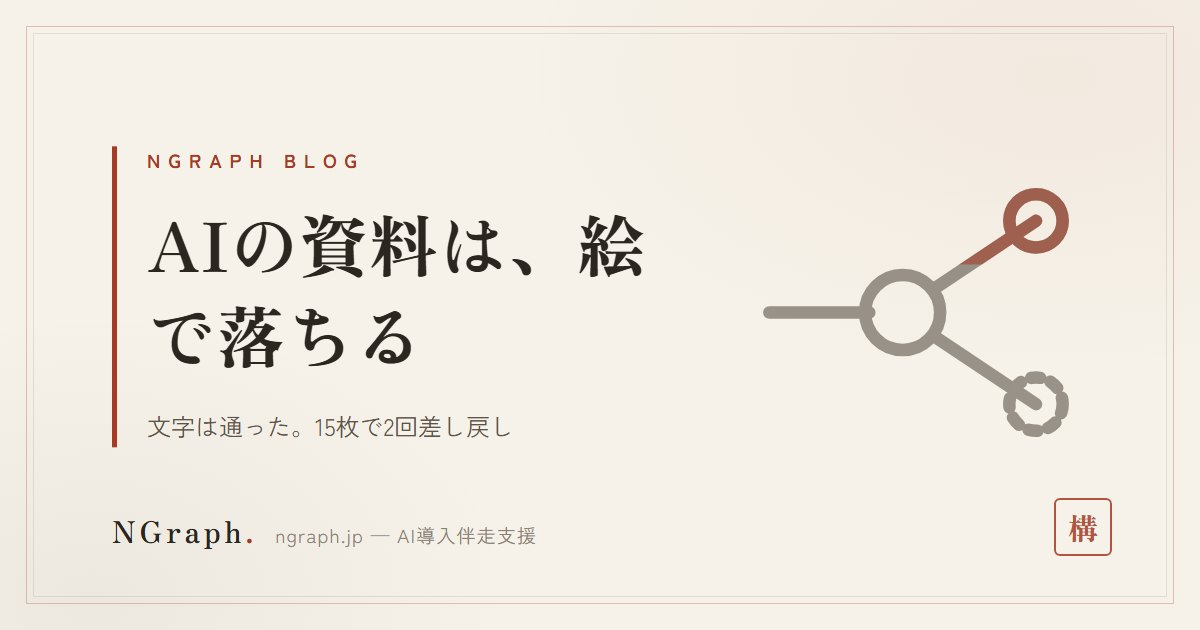
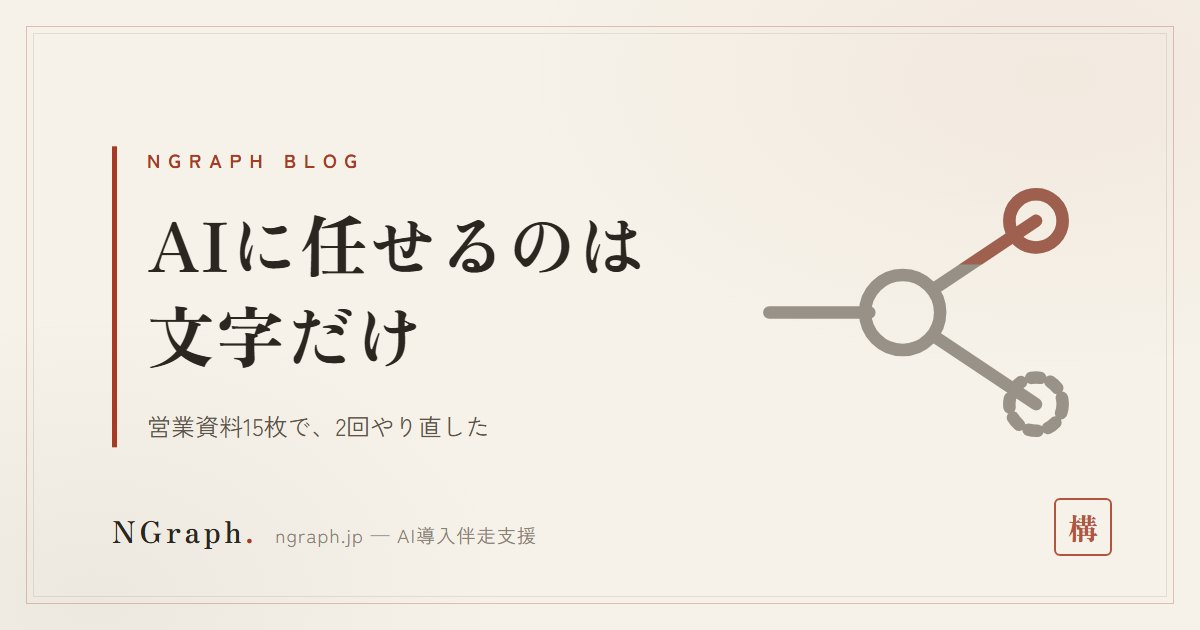
blog: 「絵で落ちる」を廃止し伝わる言葉に全面書き換え・表紙も作り直し
指摘: 表紙が「絵／で落ちる」で改行が割れていた。「落ちる」が何のことか本文を
読んでも分からない。注釈だらけの説明も読みにくい。

- 改題: AIに任せていいのは文字だけだった——営業資料15枚の移植で2回差し戻された理由と、イラストと書体の渡し方
- 表紙: 「AIに任せるのは／文字だけ」（改行を意味の切れ目に固定・図案との重なり検査も通過）
- 本文: 落ちる→作り直しになる／通る→そのまま使える／焼く→画像にする／
  近似再現→似せて描く／正本→元のデザイン に置換（社内語と比喩を全廃）
- H2見出し3本を平易化・図2のラベルも追随

Changed region(s): [[0.185, 0.3317, 0.555, 0.4524], [0.1233, 0.4825, 0.37, 0.6032], [0.1233, 0.6635, 0.4317, 0.6937]]

diff --git a/blog/20260818-ai-shiryo-sakusei.html b/blog/20260818-ai-shiryo-sakusei.html
@@ -10,10 +10,10 @@
   gtag('js', new Date());
   gtag('config', 'G-L96HMXRK1D');
 </script>
-<title>AIが作った営業資料は、絵で落ちる——15枚の移植で2回差し戻された理由と、文字と絵を分ける設計 | NGraphブログ</title>
-<meta name="description" content="AIに資料作成を任せると、文字は通っても絵と書体で落ちます。15枚のPowerPoint移植で実際に2回差し戻された理由と、文字は編集できる形で・絵は画像のまま渡す設計を、検収の手順とあわせて解説します。">
-<meta property="og:title" content="AIが作った営業資料は、絵で落ちる——15枚の移植で2回差し戻された理由と、文字と絵を分ける設計 | NGraphブログ">
-<meta property="og:description" content="15枚のPowerPoint移植で実際に2回差し戻されました。1回目は書体、2回目はイラストの近似再現が原因です。文字と絵の分け方と検収の手順を解説します。">
+<title>AIに任せていいのは文字だけだった——営業資料15枚の移植で2回差し戻された理由と、イラストと書体の渡し方 | NGraphブログ</title>
+<meta name="description" content="AIに営業資料を作らせると、文章と表はそのまま使えます。作り直しになるのはイラストとロゴ、そして書体です。15枚のPowerPoint移植で2回差し戻された理由と、文字は編集できる形で・絵は画像のまま渡す分け方を、検収の手順とあわせて書きました。">
+<meta property="og:title" content="AIに任せていいのは文字だけだった——営業資料15枚の移植で2回差し戻された理由と、イラストと書体の渡し方 | NGraphブログ">
+<meta property="og:description" content="15枚のPowerPoint移植で2回差し戻されました。1回目は書体、2回目はイラストです。文字と絵で渡し方を分ける理由と、検収の手順を書いています。">
 <meta property="og:type" content="article">
 <meta property="og:url" content="https://ngraph.jp/blog/20260818-ai-shiryo-sakusei">
 <meta property="og:site_name" content="株式会社NGraph">
@@ -34,9 +34,9 @@
 {
   "@context": "https://schema.org",
   "@type": "Article",
-  "headline": "AIが作った営業資料は、絵で落ちる——15枚の移植で2回差し戻された理由と、文字と絵を分ける設計",
+  "headline": "AIに任せていいのは文字だけだった——営業資料15枚の移植で2回差し戻された理由と、イラストと書体の渡し方",
   "image": "https://ngraph.jp/assets/blog/20260818-ai-shiryo-sakusei.jpg",
-  "description": "AIに資料作成を任せると、文字は通っても絵と書体で落ちます。15枚のPowerPoint移植で実際に2回差し戻された理由と、文字は編集できる形で・絵は画像のまま渡す設計を、検収の手順とあわせて解説します。",
+  "description": "AIに営業資料を作らせると、文章と表はそのまま使えます。作り直しになるのはイラストとロゴ、そして書体です。15枚のPowerPoint移植で2回差し戻された理由と、文字は編集できる形で・絵は画像のまま渡す分け方を、検収の手順とあわせて書きました。",
   "datePublished": "2026-08-18",
   "dateModified": "2026-08-18",
   "inLanguage": "ja",
@@ -50,12 +50,12 @@
  "@context": "https://schema.org",
  "@type": "FAQPage",
  "mainEntity": [
-  {"@type": "Question", "name": "AIに資料を丸ごと作らせることはできますか", "acceptedAnswer": {"@type": "Answer", "text": "文章や見出し、表や箇条書きの下書きはAIに任せられます。落ちるのは図解やイラスト、ロゴ、書体、ページ番号のような環境や近似に左右される部分です。丸ごと任せて検収を1段階で済ませると、書体や絵のところで差し戻しが起きます。"}},
+  {"@type": "Question", "name": "AIに資料を丸ごと作らせることはできますか", "acceptedAnswer": {"@type": "Answer", "text": "文章や見出し、表や箇条書きの下書きはAIに任せられます。作り直しになるのは図解やイラスト、ロゴ、書体、ページ番号です。丸ごと任せて確かめを1段階で済ませると、書体かイラストのところで差し戻しが起きます。"}},
   {"@type": "Question", "name": "PowerPointとPDF、どちらで受け取るべきですか", "acceptedAnswer": {"@type": "Answer", "text": "あとから文字を直す可能性があるなら、編集できるPowerPointで受け取るほうが直しやすい形です。ただし渡す相手の環境で書体が置き換わらないように、PowerPointの機能で書体を埋め込んで保存しておいてください。修正の予定が無い最終版であれば、見た目が崩れにくいPDFのほうが安全な場面もあります。"}},
   {"@type": "Question", "name": "生成AIで作った画像を営業資料に使ってよいですか", "acceptedAnswer": {"@type": "Answer", "text": "使えるかどうかは、使っている生成AIサービスの利用規約によって条件が異なります。商用利用が可能か、生成した画像の権利がどちらに帰属するかを、サービスごとの規約であらかじめ確認してください。判断に迷う場合は、社内で法務や契約の窓口に確認する体制を先に作っておくことをおすすめします。"}},
   {"@type": "Question", "name": "書体はどうすればいいですか", "acceptedAnswer": {"@type": "Answer", "text": "PowerPointやWordの機能で書体を埋め込んで保存すると、開く相手のパソコンに同じ書体が入っていなくても表示が崩れにくくなります。ただしMicrosoftの公式ドキュメントには、すべてのTrueTypeフォントを埋め込めるわけではないと明記されています。使う書体が埋め込みに対応しているかを先に確認してください。"}},
-  {"@type": "Question", "name": "イラストや図版だけ外に頼むのは無駄ですか", "acceptedAnswer": {"@type": "Answer", "text": "無駄ではありません。うちの経験では、承認済みのイラストやロゴをAIに描き直させると品質が正本に届かないことが分かっています。文字の修正はAIやテキスト編集で内製し、イラストや図版は正本を作れる人に依頼して切り出して使うという分担のほうが、結果的に手戻りが少なくなります。"}},
-  {"@type": "Question", "name": "社内では誰がこの検収をやるべきですか", "acceptedAnswer": {"@type": "Answer", "text": "資料を実際に使う人、つまり渡す相手と同じ環境を持っている人が検収するのが確実です。制作した本人だけがプレビューで確認する体制だと、書体の置き換わりのような環境依存の欠陥を見逃します。"}}
+  {"@type": "Question", "name": "イラストや図版だけ外に頼むのは無駄ですか", "acceptedAnswer": {"@type": "Answer", "text": "無駄ではありません。うちの経験では、承認済みのイラストやロゴをAIに描き直させると品質が元のデザインに届かないことが分かっています。文字の修正はAIやテキスト編集で内製し、イラストや図版は元のデザインを作れる人に頼み、そこから切り出して使うという分担のほうが、結果的に手戻りが少なくなります。"}},
+  {"@type": "Question", "name": "社内では誰が確認すべきですか", "acceptedAnswer": {"@type": "Answer", "text": "資料を実際に使う人、つまり渡す相手と同じ環境を持っている人が確認するのが確実です。制作した本人だけがプレビューで確認する体制だと、書体の置き換わりのような環境依存の欠陥を見逃します。"}}
  ]
 }
 </script>
@@ -76,51 +76,51 @@
 
 <article class="article-wrap">
   <div class="a-label">Evening Deep Dive</div>
-  <h1>AIが作った営業資料は、絵で落ちる——15枚の移植で2回差し戻された理由と、文字と絵を分ける設計</h1>
+  <h1>AIに任せていいのは文字だけだった——営業資料15枚の移植で2回差し戻された理由と、イラストと書体の渡し方</h1>
   <span class="a-date">2026.08.18 夕 ｜ 株式会社NGraph</span>
-  <img class="a-eyecatch" src="/assets/blog/20260818-ai-shiryo-sakusei.jpg" alt="AIが作った営業資料は、絵で落ちる——15枚の移植で2回差し戻された理由と、文字と絵を分ける設計">
+  <img class="a-eyecatch" src="/assets/blog/20260818-ai-shiryo-sakusei.jpg" alt="AIに任せていいのは文字だけだった——営業資料15枚の移植で2回差し戻された理由と、イラストと書体の渡し方">
 
-<p>AIに資料をまるごと作らせることはできます。実際にそこで落ちるのは、文字ではありません。絵と書体、そして開く相手の環境です。中小企業基盤整備機構の調査によると、AIを導入した企業の82.6%が生成AIを使っていて、その使い道の代表例として挙がっているのが「文章・資料作成」です。導入目的の1位も業務効率化・作業時間の短縮で87.0%を占めています。つまり資料作成は、多くの会社が最初にAIを試す場所であり、しかも効率化という目的にそのまま直結する作業だということです。この記事では、うちが実際に15枚の資料を移植して2回差し戻された経験をもとに、どこで落ちるのか、なぜ文字だけは通るのか、そして落ちないための任せ方と検収の手順を書きます。</p>
+<p>AIに営業資料を作らせると、文章と見出し、表はそのまま使えます。作り直しになるのはイラストとロゴ、それに書体です。うちは承認済みのデザイン15枚をPowerPointに移す作業で、2回差し戻されました。1回目の原因は書体、2回目はイラストです。中小企業基盤整備機構の調査によると、AIを導入した企業の82.6%が生成AIを使っていて、その使い道の代表例として挙がっているのが「文章・資料作成」です。導入目的の1位も業務効率化・作業時間の短縮で87.0%を占めています。つまり資料作成は、多くの会社が最初にAIを試す場所であり、しかも効率化という目的にそのまま直結する作業だということです。この記事では、その2回で何が起きたのかと、同じところで作り直しにならないための任せ方・確かめ方を書きます。</p>
 <div class="a-toc"><strong>この記事でわかること</strong><br>
-・資料の要素ごとに、AIに任せてよい部分と落ちる部分の境目<br>
-・文字は通り絵だけが落ちる理由と、公式の説明との向き合い方<br>
-・うちが実際に踏んだ2回の差し戻しと、検収の手順の直し方</div>
+・資料の要素ごとに、AIに任せてよいものと、任せると作り直しになるもの<br>
+・文章はそのまま使えるのに、イラストだけ品質が届かない理由<br>
+・うちが実際に踏んだ2回の差し戻しと、そのあと変えた確かめ方</div>
 
-<h2>AIに資料を作らせると、どこで落ちるのか</h2>
-<p>結論から言うと、本文の文章や見出し、表や箇条書きはAIにそのまま任せられます。落ちるのは、図解やイラスト、ロゴ、書体、ページ番号のような、環境や近似に左右される部分です。うちが承認済みのデザイン正本15枚を、あとから文字を直せるPowerPointへ移植したときも、通ったのは文字で、差し戻しの理由は毎回、絵か書体か仕組みのどれかでした。この境目を知らないまま任せると、通った部分だけを見て「AIに作らせて大丈夫だった」と早合点しやすくなります。要素ごとに整理すると、次のようになります。</p>
+<h2>AIに資料を作らせると、どこで作り直しになるのか</h2>
+<p>結論から言うと、本文の文章や見出し、表や箇条書きはAIにそのまま任せられます。作り直しになるのは、図解やイラスト、ロゴ、書体、ページ番号です。どれも、AIが元のデザインを見ずに似せて描くか、開く相手のパソコンの状態に左右されるものです。うちが承認済みの完成デザイン15枚を、あとから文字を直せるPowerPointへ移植したときも、そのまま使えたのは文字で、差し戻しの理由は毎回、イラストか書体か仕組みのどれかでした。この境目を知らないまま任せると、うまくいった部分だけを見て「AIに作らせて大丈夫だった」と早合点しやすくなります。要素ごとに整理すると、次のようになります。</p>
 <div class="a-table-wrap"><table class="a-table">
-<tr><th>要素</th><th>任せられるか</th><th>落ちるところ</th><th>確かめ方</th></tr>
-<tr><td>本文・見出し</td><td>○</td><td>ほぼ落ちない</td><td>読んで意味が通るか</td></tr>
+<tr><th>要素</th><th>任せられるか</th><th>作り直しになるところ</th><th>確かめ方</th></tr>
+<tr><td>本文・見出し</td><td>○</td><td>ほぼ無い</td><td>読んで意味が通るか</td></tr>
 <tr><td>表・箇条書き</td><td>○</td><td>数値のズレ</td><td>元データと突き合わせる</td></tr>
-<tr><td>図解（枠・矢印・棒）</td><td>△</td><td>線や配置が正本とズレる</td><td>正本と並べて重ねて見る</td></tr>
-<tr><td>イラスト・写真</td><td>△〜×</td><td>近似再現で品質が落ちる</td><td>正本と並べて見る</td></tr>
-<tr><td>ロゴ</td><td>×</td><td>形と色が崩れる</td><td>正本から切り出したか確認する</td></tr>
+<tr><td>図解の枠・矢印</td><td>△</td><td>線や配置が元のデザインとズレる</td><td>元のデザインと並べて重ねて見る</td></tr>
+<tr><td>イラスト・写真</td><td>△〜×</td><td>似せて描くので品質が届かない</td><td>元のデザインと並べて見る</td></tr>
+<tr><td>ロゴ</td><td>×</td><td>形と色が崩れる</td><td>元のデザインから切り出したか確認する</td></tr>
 <tr><td>書体</td><td>△</td><td>相手の環境に無いと別書体に化ける</td><td>実際のアプリで開く</td></tr>
 <tr><td>ページ番号・フッタ</td><td>△</td><td>挿入・削除で数字がズレる</td><td>全ページを開いて数える</td></tr>
 </table></div>
-<p>文字は通り、絵は落ちる。この境目がなぜ生まれるのかを、次の章で見ていきます。</p>
+<p>文字はそのまま使えて、イラストは作り直しになる。この差がどこから来るのかを、次の章で見ていきます。</p>
 
-<h2>なぜ文字は通って、絵だけ落ちるのか</h2>
-<p>AIが最後に画面へ出しているのは、実は文字の並びです。文章を書くときはもちろん、資料のテキストボックスの中身も、AIから見れば同じ文字列という出力です。文字列は書いた通りにそのまま渡せるので、誤字さえ無ければそのまま正しく通ります。</p>
-<p>一方、図解やイラストをAIに描かせると話が変わります。AIは線や図形を組み立てて、見た目を近似的に再現しようとします。正本のイラストやロゴが実際にどんな線でできているかをAIは知らないので、似せて描き直すことしかできません。うちの2回目の差し戻しは、これが原因でした。承認済みのイラストやロゴをAIに描き直させたところ、品質が正本に届かず不合格になっています。</p>
-<p>だから任せ方の基準は単純です。文字は編集できる形のまま渡し、絵は正本の画像のまま置く。この2つを混ぜると、あとから直せないものが増えていきます。</p>
+<h2>なぜ文章はそのまま使えて、イラストだけ品質が届かないのか</h2>
+<p>AIが最後に画面へ出しているのは、実は文字の並びです。文章を書くときはもちろん、資料のテキストボックスの中身も、AIから見れば同じ文字列という出力です。文字列は書いた通りにそのまま渡せるので、誤字さえ無ければそのまま正しく出ます。</p>
+<p>一方、図解やイラストをAIに描かせると話が変わります。AIは線や図形を組み立てて、見た目を似せて描こうとします。元のイラストやロゴが実際にどんな線でできているかをAIは知らないので、似せて描き直すことしかできません。うちの2回目の差し戻しは、これが原因でした。承認済みのイラストやロゴをAIに描き直させたところ、品質が元のデザインに届かず不合格になっています。</p>
+<p>だから任せ方の基準は単純です。文字は編集できる形のまま渡し、絵は元の画像のまま置く。この2つを混ぜると、あとから直せないものが増えていきます。</p>
 <div class="a-fig-wrap">
 <p class="a-fig-title">文字と絵で、渡し方を分ける</p>
-<svg viewBox="0 0 1200 630" width="100%" style="min-width:640px" role="img" aria-label="文字と絵で、渡し方を分ける"><rect x="300" y="50" width="620" height="424" fill="none" stroke="#8a8172" stroke-width="1"/><rect x="300" y="50" width="310.0" height="212.0" fill="rgba(92,84,74,.05)"/><text x="455.0" y="147.91500000000002" font-family="'Zen Kaku Gothic New',sans-serif" font-size="21" fill="#2b2620" font-weight="700" text-anchor="middle">文字は</text><text x="455.0" y="178.365" font-family="'Zen Kaku Gothic New',sans-serif" font-size="21" fill="#2b2620" font-weight="700" text-anchor="middle">編集できる形で渡す</text><rect x="610.0" y="50" width="310.0" height="212.0" fill="rgba(92,84,74,.05)"/><text x="765.0" y="147.91500000000002" font-family="'Zen Kaku Gothic New',sans-serif" font-size="21" fill="#2b2620" font-weight="700" text-anchor="middle">文字を</text><text x="765.0" y="178.365" font-family="'Zen Kaku Gothic New',sans-serif" font-size="21" fill="#2b2620" font-weight="700" text-anchor="middle">画像に焼かない</text><rect x="300" y="262.0" width="310.0" height="212.0" fill="rgba(92,84,74,.05)"/><text x="455.0" y="359.91499999999996" font-family="'Zen Kaku Gothic New',sans-serif" font-size="21" fill="#2b2620" font-weight="700" text-anchor="middle">絵を</text><text x="455.0" y="390.36499999999995" font-family="'Zen Kaku Gothic New',sans-serif" font-size="21" fill="#2b2620" font-weight="700" text-anchor="middle">線で近似しない</text><rect x="610.0" y="262.0" width="310.0" height="212.0" fill="rgba(92,84,74,.05)"/><text x="765.0" y="359.91499999999996" font-family="'Zen Kaku Gothic New',sans-serif" font-size="21" fill="#2b2620" font-weight="700" text-anchor="middle">絵は</text><text x="765.0" y="390.36499999999995" font-family="'Zen Kaku Gothic New',sans-serif" font-size="21" fill="#2b2620" font-weight="700" text-anchor="middle">画像のまま置く</text><line x1="610.0" y1="50" x2="610.0" y2="474" stroke="#2b2620" stroke-width="1.4"/><line x1="300" y1="262.0" x2="920" y2="262.0" stroke="#2b2620" stroke-width="1.4"/><text x="610.0" y="512" font-family="'Zen Kaku Gothic New',sans-serif" font-size="20" fill="#5c544a" font-weight="500" text-anchor="middle">左：編集できる形／右：画像に焼く</text><text x="278" y="262.0" font-family="'Zen Kaku Gothic New',sans-serif" font-size="20" fill="#5c544a" font-weight="500" text-anchor="end">上：文字／下：絵</text><text x="600.0" y="572.0" font-family="'Zen Old Mincho',serif" font-size="24" fill="#2b2620" font-weight="900" text-anchor="middle">この2軸で分けると、直せるものと直せないものが分かれる</text><text x="8" y="614" font-family="'Zen Kaku Gothic New',sans-serif" font-size="13" fill="#8a8172" font-weight="400" text-anchor="start">出所：NGraphの実作業（2026年8月）</text></svg>
+<svg viewBox="0 0 1200 630" width="100%" style="min-width:640px" role="img" aria-label="文字と絵で、渡し方を分ける"><rect x="300" y="50" width="620" height="424" fill="none" stroke="#8a8172" stroke-width="1"/><rect x="300" y="50" width="310.0" height="212.0" fill="rgba(92,84,74,.05)"/><text x="455.0" y="147.91500000000002" font-family="'Zen Kaku Gothic New',sans-serif" font-size="21" fill="#2b2620" font-weight="700" text-anchor="middle">文字は</text><text x="455.0" y="178.365" font-family="'Zen Kaku Gothic New',sans-serif" font-size="21" fill="#2b2620" font-weight="700" text-anchor="middle">編集できる形で渡す</text><rect x="610.0" y="50" width="310.0" height="212.0" fill="rgba(92,84,74,.05)"/><text x="765.0" y="147.91500000000002" font-family="'Zen Kaku Gothic New',sans-serif" font-size="21" fill="#2b2620" font-weight="700" text-anchor="middle">文字を</text><text x="765.0" y="178.365" font-family="'Zen Kaku Gothic New',sans-serif" font-size="21" fill="#2b2620" font-weight="700" text-anchor="middle">画像にしない</text><rect x="300" y="262.0" width="310.0" height="212.0" fill="rgba(92,84,74,.05)"/><text x="455.0" y="359.91499999999996" font-family="'Zen Kaku Gothic New',sans-serif" font-size="21" fill="#2b2620" font-weight="700" text-anchor="middle">絵を</text><text x="455.0" y="390.36499999999995" font-family="'Zen Kaku Gothic New',sans-serif" font-size="21" fill="#2b2620" font-weight="700" text-anchor="middle">似せて描かない</text><rect x="610.0" y="262.0" width="310.0" height="212.0" fill="rgba(92,84,74,.05)"/><text x="765.0" y="359.91499999999996" font-family="'Zen Kaku Gothic New',sans-serif" font-size="21" fill="#2b2620" font-weight="700" text-anchor="middle">絵は</text><text x="765.0" y="390.36499999999995" font-family="'Zen Kaku Gothic New',sans-serif" font-size="21" fill="#2b2620" font-weight="700" text-anchor="middle">画像のまま置く</text><line x1="610.0" y1="50" x2="610.0" y2="474" stroke="#2b2620" stroke-width="1.4"/><line x1="300" y1="262.0" x2="920" y2="262.0" stroke="#2b2620" stroke-width="1.4"/><text x="610.0" y="512" font-family="'Zen Kaku Gothic New',sans-serif" font-size="20" fill="#5c544a" font-weight="500" text-anchor="middle">左：編集できる形／右：画像にする</text><text x="278" y="262.0" font-family="'Zen Kaku Gothic New',sans-serif" font-size="20" fill="#5c544a" font-weight="500" text-anchor="end">上：文字／下：絵</text><text x="600.0" y="572.0" font-family="'Zen Old Mincho',serif" font-size="24" fill="#2b2620" font-weight="900" text-anchor="middle">この2軸で分けると、あとから直せるものと直せないものが分かれる</text><text x="8" y="614" font-family="'Zen Kaku Gothic New',sans-serif" font-size="13" fill="#8a8172" font-weight="400" text-anchor="start">出所：NGraphの実作業（2026年8月）</text></svg>
 </div>
 <p style="font-size:.85rem;color:var(--text-3)">どこをAIに任せてよいかの見極めは、<a href="/fde/" style="color:var(--accent);border-bottom:1px solid var(--accent)">FDE型AI導入支援</a>でも毎回最初に確認している点です。</p>
 
-<h2>公式は「読める文字を描ける」と書いている。それでも文字を絵に焼いてはいけない</h2>
+<h2>Googleは「文字も描ける」と書いている。それでも資料の文字は画像にしない</h2>
 <p>画像生成AIの公式ドキュメントを見ると、話はもう少し込み入ってきます。Googleが公開している画像生成モデルのドキュメントは、読みやすく様式化された文字を描けることをモデルの特長として挙げていて、使い道の例としてインフォグラフィックやメニュー、図、マーケティング用の素材を挙げています。公式は「文字も絵として描ける」と言っているわけです。</p>
-<p>それでも、うちは資料の本文を画像として焼くことをしません。理由は品質ではなく、あとから直せるかどうかです。文字を絵として焼いてしまうと、1文字の誤字を直すだけでもページを描き直すことになります。編集できるテキストのまま渡しておけば、誤字は文字を打ち直すだけで済みます。公式が「描ける」と言っていることと、うちが「焼かない」と決めていることは矛盾していません。描けるかどうかと、あとから直せるかどうかは別の問題だからです。</p>
-<p>インフォグラフィックのタイトルのように、そもそも編集する予定が無い一枚絵の中の文字なら、画像として焼いてよい場面もあります。線引きは「あとで直す可能性があるか」の1点です。SNS投稿用の1枚絵や、公開して終わりのバナーのように、その先ずっと文字を直さないと決めているものなら、公式が挙げているインフォグラフィックやメニューの作り方のとおり、文字ごと画像として焼いてしまって構いません。逆に、営業資料や提案書のように相手の反応を見て何度も直す前提のものは、文字を画像に焼いた時点で「直せる資料」ではなくなります。</p>
+<p>それでも、うちは資料の本文を画像にすることをしません。理由は品質ではなく、あとから直せるかどうかです。文字を画像の一部にしてしまうと、1文字の誤字を直すだけでもページを描き直すことになります。編集できるテキストのまま渡しておけば、誤字は文字を打ち直すだけで済みます。公式が「描ける」と言っていることと、うちが「画像にしない」と決めていることは矛盾していません。描けるかどうかと、あとから直せるかどうかは別の問題だからです。</p>
+<p>インフォグラフィックのタイトルのように、そもそも編集する予定が無い一枚絵の中の文字なら、画像にしてしまってよい場面もあります。線引きは「あとで直す可能性があるか」の1点です。SNS投稿用の1枚絵や、公開して終わりのバナーのように、その先ずっと文字を直さないと決めているものなら、公式が挙げているインフォグラフィックやメニューの作り方のとおり、文字ごと画像にしてしまって構いません。逆に、営業資料や提案書のように相手の反応を見て何度も直す前提のものは、文字を画像にした時点で「直せる資料」ではなくなります。</p>
 
 <h2>うちで起きた2回の差し戻し</h2>
-<p>抽象的な話が続いたので、実際に何が起きたかを書きます。</p>
-<div class="a-note"><p><strong>現場の話：</strong>2026年8月、うちは承認済みのデザイン正本（PNG15枚）を、あとから文字を直せるPowerPointファイルへ移植する作業をしていました。共通の15枚に、特定の提案先向けの6枚を足した21枚版も、同じ部品から組み立てています。</p>
+<p>ここまでは考え方の話でした。実際に何が起きたのかを書きます。</p>
+<div class="a-note"><p><strong>現場の話：</strong>2026年8月、うちは、社内で承認を取った完成デザイン15枚を画像で持っていて、それをあとから文字を直せるPowerPointファイルへ移植する作業をしていました。共通の15枚に、特定の提案先向けの6枚を足した21枚版も、同じ部品から組み立てています。</p>
 <p><strong>1回目の差し戻しは、書体が原因でした。</strong>制作ツールの中のプレビューでは、位置のズレが±6ピクセル以内に収まっていることを確認し、合格として納品しました。ところが実際にPowerPointで開くと、本文の書体（明朝）がそのパソコンに入っておらず、全文がゴシック体に置き換わっていました。評価は「全然使えないレベル」でした。プレビューの中でどれだけ正確に見えていても、開く相手のパソコンに同じ書体が無ければ、その正確さは意味を持ちません。</p>
-<p><strong>2回目の差し戻しは、絵が原因でした。</strong>イラストや画面のモック、ロゴをAIに線と図形で近似的に描き直させたところ、品質が正本に届かず不合格になりました。同じパソコンには画像生成AIを使う手順がすでに導入済みだったのに、この作業ではそれが使われていませんでした。道具を持っていることと、その場面で道具を思い出して使うことは、別の話だったということです。</p>
-<p>ほかにも小さな欠陥がいくつか出ています。ページ番号を各ページに焼き込んでいたため、あとからページを挿入すると数字がズレました。14ページ目が「11」、18ページ目が「13」、21ページ目が「15/15」と誤表示していて、フッタの機能に1か所へまとめることで解消しています。外部のAIレビューが挙げた欠陥のうち、10ページ目の「吹き出しが浮いている」という指摘は、自分の目で開いて確かめたら誤検出でした。指摘を全部そのまま信じず、実際に開いて確かめる手間は省けません。</p>
+<p><strong>2回目の差し戻しは、絵が原因でした。</strong>イラストや画面のモック、ロゴをAIに線と図形で似せて描き直させたところ、品質が元のデザインに届かず不合格になりました。同じパソコンには画像生成AIを使う手順がすでに導入済みだったのに、この作業ではそれが使われていませんでした。道具を持っていることと、その場面で道具を思い出して使うことは、別の話だったということです。</p>
+<p>ほかにも小さな欠陥がいくつか出ています。ページ番号を各ページに直接書き込んでいたため、あとからページを挿入すると数字がズレました。14ページ目が「11」、18ページ目が「13」、21ページ目が「15/15」と誤表示していて、フッタの機能に1か所へまとめることで解消しています。外部のAIレビューが挙げた欠陥のうち、10ページ目の「吹き出しが浮いている」という指摘は、自分の目で開いて確かめたら誤検出でした。指摘を全部そのまま信じず、実際に開いて確かめる手間は省けません。</p>
 <p>最終的な納品は、PowerPointの機能で書体を埋め込んだ版にしています。作業の途中では、日本語を含む保存先を経由すると文字化けして保存に失敗する問題も出たため、英数字だけの名前で保存してから改名する手順に直しました。</p></div>
 
 <h2>なぜ中小企業が最初に踏むのがこの地雷なのか</h2>
@@ -133,16 +133,16 @@
 <p>一方で、事例や選び方の情報は足りていません。成功事例や活用事例などの情報が十分に入手できていると答えられなかった企業は計83.3%、適切なベンダーや製品を選定する情報が十分にあると答えられなかった企業は計79.8%にのぼります。「社内においてIT・AIの必要性への理解がある」と答えられた企業も45.1%にとどまり、必要性の共有すら半分に届いていません。資料作成という入りやすい場所に足を踏み入れる企業は多いのに、そこで何につまずくかを知る手段はほとんど無いということです。うちが実際に踏んだ書体と絵の地雷も、この情報不足の一部だと考えています。</p>
 
 <h2>よくある失敗3つ</h2>
-<p>うちの経験と公式の情報を合わせると、よくある失敗は3つに絞れます。</p>
+<p>うちの経験と公式の情報を合わせると、よくある失敗は3つに絞れます。3つとも、出来上がったものを受け取る前にどこまで確かめたか、という話です。</p>
 <h3>① 制作ツールの中のプレビューで検収する</h3>
 <p>制作ツールのプレビューは、そのツールの中でだけ正しく見える画面です。うちの1回目の差し戻しは、プレビューでは位置のズレが±6ピクセル以内に収まっていたのに、実際のPowerPointで開くと書体が置き換わって全文がゴシック体になっていました。プレビューで合格にした資料でも、開く相手のアプリで開き直すまでは検収を終えたことになりません。</p>
 <h3>② 図版・ロゴをAIに描き直させる</h3>
-<p>承認済みのイラストやロゴをAIに近似再現させると、線や色が正本からズレます。うちの2回目の差し戻しはこれが理由でした。写真やイラストは描き直さず、正本のファイルから該当部分を切り出して使うほうが確実です。</p>
+<p>承認済みのイラストやロゴをAIに似せて描き直させると、線や色が元のデザインからズレます。うちの2回目の差し戻しはこれが理由でした。写真やイラストは描き直さず、元のデザインのファイルから必要な部分を切り出して使うほうが確実です。</p>
 <h3>③ 書体を埋め込まずに渡す</h3>
 <p>Microsoftの公式ドキュメントは、すべてのTrueTypeフォントを埋め込めるわけではないと明記しています。フォントを作った側が、埋め込みを不可にしたり、プレビューと印刷だけに制限したりする設定を持っているためです。埋め込みに対応するアプリの版も、Windows版が先に対応が進み、Mac版はあとの版から対応する広がり方をしてきました。書体を埋め込まずに渡すと、うちの1回目の差し戻しと同じことが、相手の環境で毎回起きます。</p>
 <p style="font-size:.85rem;color:var(--text-3)">検収の手順を仕組みにしたい場合は、<a href="/fde/" style="color:var(--accent);border-bottom:1px solid var(--accent)">FDE型AI導入支援の無料相談</a>で今の任せ方を一緒に見直せます。</p>
 
-<h2>任せ方と検収の手順</h2>
+<h2>任せ方と、受け取る前に確かめる順番</h2>
 <p>ここまでの整理をもとに、検収の段階を表にまとめます。</p>
 <div class="a-table-wrap"><table class="a-table">
 <tr><th>段階</th><th>やること</th><th>そこで初めて分かること</th><th>うちで実際に出た欠陥</th></tr>
@@ -159,16 +159,16 @@
 
 <h2>よくある質問</h2>
 <div class="a-faq">
-<details><summary>AIに資料を丸ごと作らせることはできますか</summary><p>文章や見出し、表や箇条書きの下書きはAIに任せられます。落ちるのは図解やイラスト、ロゴ、書体、ページ番号のような環境や近似に左右される部分です。丸ごと任せて検収を1段階で済ませると、書体や絵のところで差し戻しが起きます。</p></details>
+<details><summary>AIに資料を丸ごと作らせることはできますか</summary><p>文章や見出し、表や箇条書きの下書きはAIに任せられます。作り直しになるのは図解やイラスト、ロゴ、書体、ページ番号です。丸ごと任せて確かめを1段階で済ませると、書体かイラストのところで差し戻しが起きます。</p></details>
 <details><summary>PowerPointとPDF、どちらで受け取るべきですか</summary><p>あとから文字を直す可能性があるなら、編集できるPowerPointで受け取るほうが直しやすい形です。ただし渡す相手の環境で書体が置き換わらないように、PowerPointの機能で書体を埋め込んで保存しておいてください。修正の予定が無い最終版であれば、見た目が崩れにくいPDFのほうが安全な場面もあります。</p></details>
 <details><summary>生成AIで作った画像を営業資料に使ってよいですか</summary><p>使えるかどうかは、使っている生成AIサービスの利用規約によって条件が異なります。商用利用が可能か、生成した画像の権利がどちらに帰属するかを、サービスごとの規約であらかじめ確認してください。判断に迷う場合は、社内で法務や契約の窓口に確認する体制を先に作っておくことをおすすめします。</p></details>
 <details><summary>書体はどうすればいいですか</summary><p>PowerPointやWordの機能で書体を埋め込んで保存すると、開く相手のパソコンに同じ書体が入っていなくても表示が崩れにくくなります。ただしMicrosoftの公式ドキュメントには、すべてのTrueTypeフォントを埋め込めるわけではないと明記されています。使う書体が埋め込みに対応しているかを先に確認してください。</p></details>
-<details><summary>イラストや図版だけ外に頼むのは無駄ですか</summary><p>無駄ではありません。うちの経験では、承認済みのイラストやロゴをAIに描き直させると品質が正本に届かないことが分かっています。文字の修正はAIやテキスト編集で内製し、イラストや図版は正本を作れる人に依頼して切り出して使うという分担のほうが、結果的に手戻りが少なくなります。</p></details>
-<details><summary>社内では誰がこの検収をやるべきですか</summary><p>資料を実際に使う人、つまり渡す相手と同じ環境を持っている人が検収するのが確実です。制作した本人だけがプレビューで確認する体制だと、書体の置き換わりのような環境依存の欠陥を見逃します。</p></details>
+<details><summary>イラストや図版だけ外に頼むのは無駄ですか</summary><p>無駄ではありません。うちの経験では、承認済みのイラストやロゴをAIに描き直させると品質が元のデザインに届かないことが分かっています。文字の修正はAIやテキスト編集で内製し、イラストや図版は元のデザインを作れる人に頼み、そこから切り出して使うという分担のほうが、結果的に手戻りが少なくなります。</p></details>
+<details><summary>社内では誰が確認すべきですか</summary><p>資料を実際に使う人、つまり渡す相手と同じ環境を持っている人が確認するのが確実です。制作した本人だけがプレビューで確認する体制だと、書体の置き換わりのような環境依存の欠陥を見逃します。</p></details>
 </div>
 
 <h2>まとめ</h2>
-<p>AIに資料を作らせても、文字はほとんど落ちません。落ちるのは、図解やイラスト、ロゴ、書体、ページ番号のような、環境や近似に左右される部分です。うちは15枚の資料の移植で2回差し戻され、1回目は書体の未埋め込み、2回目はイラストとロゴの近似再現が原因でした。直した設計は3つです。実際のアプリで開いて書き出した画像だけを検収の証拠にすること、文字は編集できる形で・絵は画像のまま渡すという分担を徹底すること、そして写真やイラストは描き直さず正本から切り出して使うことです。次に資料をAIに任せるときは、まずこの3つを自分の手順に当てはめてみてください。</p>
+<p>AIに資料を作らせても、文章と表はほとんどそのまま使えます。作り直しになるのは、図解やイラスト、ロゴ、書体、ページ番号です。うちは15枚の資料の移植で2回差し戻され、1回目は書体の未埋め込み、2回目はイラストとロゴをAIに似せて描き直させたことが原因でした。変えたやり方は3つです。実際のアプリで開いて書き出した画像だけを検収の証拠にすること、文字は編集できる形で・絵は画像のまま渡すという分担を徹底すること、そして写真やイラストは描き直さず、元のデザインから切り出して使うことです。次に資料をAIに任せるときは、まずこの3つを自分の手順に当てはめてみてください。</p>
 
 <div class="a-cta">
   <p style="font-family:var(--serif);font-size:1.02rem;font-weight:700;color:var(--text)">「どこをAIに任せて、どこを人が確かめるか」から、一緒に設計します。</p>

diff --git a/blog/index.html b/blog/index.html
@@ -63,8 +63,8 @@
       <div class="card blog-card">
         <span class="b-date">2026.08.18 夕</span>
         <a href="/blog/20260818-ai-shiryo-sakusei" class="b-thumb"><img src="/assets/blog/20260818-ai-shiryo-sakusei.jpg" alt="" loading="lazy"></a>
-        <h3><a href="/blog/20260818-ai-shiryo-sakusei">AIが作った営業資料は、絵で落ちる——15枚の移植で2回差し戻された理由と、文字と絵を分ける設計</a></h3>
-        <p>AIに資料作成を任せると、文字は通っても絵と書体で落ちます。15枚のPowerPoint移植で実際に2回差し戻された理由と、文字は編集できる形で・絵は画像のまま渡す設計を、検収の手順とあわせて解説します。</p>
+        <h3><a href="/blog/20260818-ai-shiryo-sakusei">AIに任せていいのは文字だけだった——営業資料15枚の移植で2回差し戻された理由と、イラストと書体の渡し方</a></h3>
+        <p>AIに営業資料を作らせると、文章と表はそのまま使えます。作り直しになるのはイラストとロゴ、そして書体です。15枚のPowerPoint移植で2回差し戻された理由と、文字と絵で渡し方を分ける考え方を書きました。</p>
         <a href="/blog/20260818-ai-shiryo-sakusei" class="b-more">読む →</a>
       </div>
       <div class="card blog-card">
